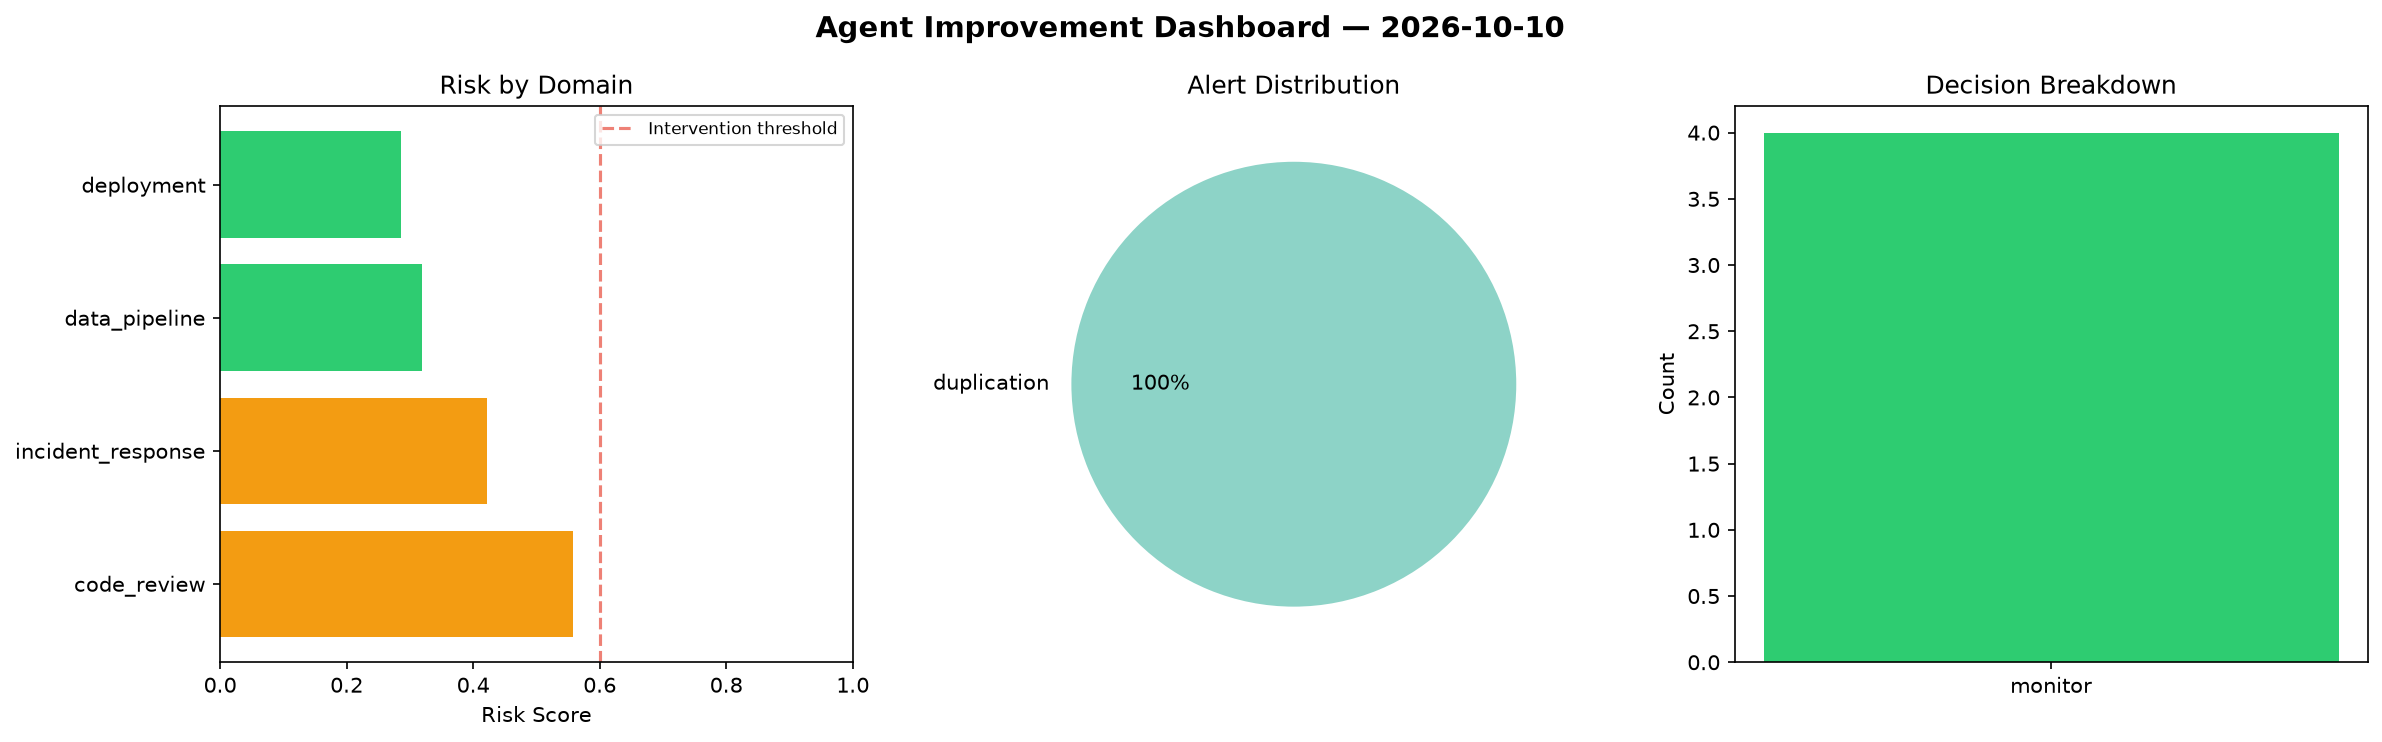
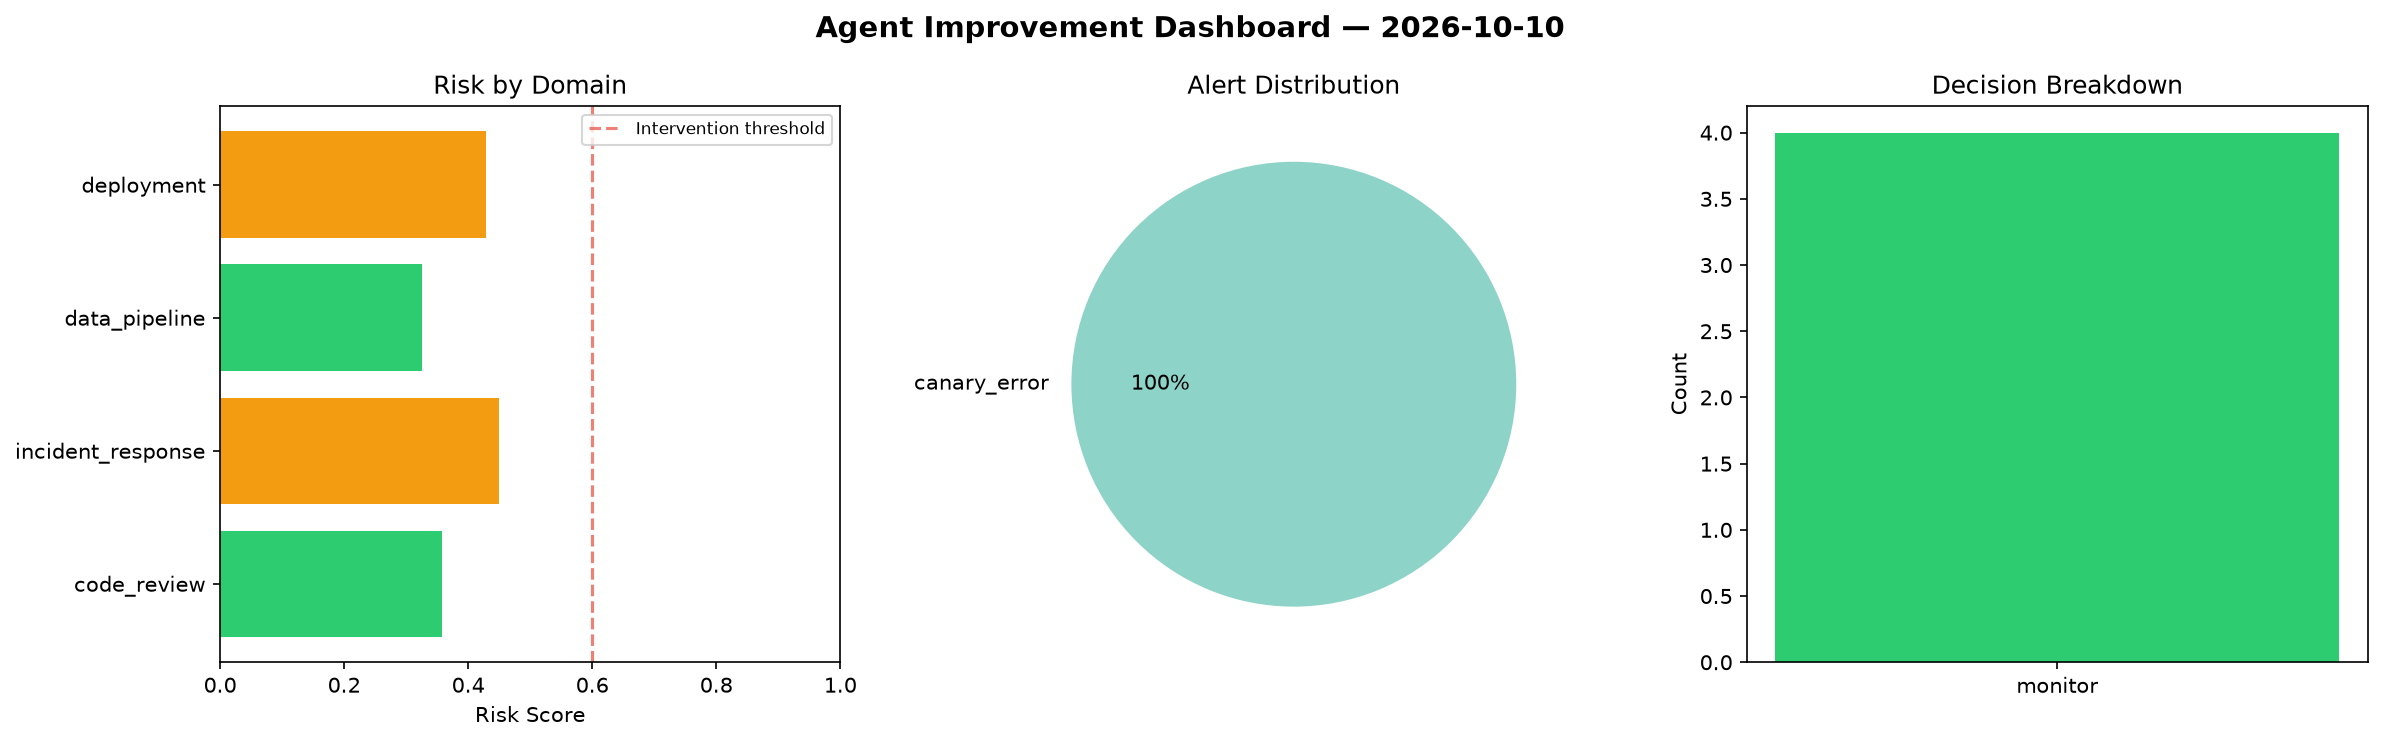
agent-improvement: daily cycle 2026-10-10T08:27

diff --git a/logs/2026-10-10.md b/logs/2026-10-10.md
@@ -1,6 +1,6 @@
 # Agent Improvement Report — 2026-10-10
 
-**Cycle ID:** `f6aad705` | **Avg Risk:** 0.3962 | **Interventions:** 0/4
+**Cycle ID:** `4cf2f78a` | **Avg Risk:** 0.3907 | **Interventions:** 0/4
 
 ![Dashboard](2026-10-10_dashboard.png)
 
@@ -10,18 +10,18 @@
 
 | Domain | Risk Score | Decision | Alerts |
 |--------|-----------|----------|--------|
-| code_review | 0.5578 | monitor | duplication |
-| incident_response | 0.4222 | monitor | none |
-| data_pipeline | 0.3187 | monitor | none |
-| deployment | 0.2861 | monitor | none |
+| code_review | 0.3584 | monitor | none |
+| incident_response | 0.4497 | monitor | none |
+| data_pipeline | 0.3261 | monitor | none |
+| deployment | 0.4284 | monitor | canary_error |
 
 ## Delta vs Yesterday
 
 | Domain | Today | Yesterday | Change |
 |--------|-------|-----------|--------|
-| code_review | 0.5578 | 0.7127 | 📉 -21.7% |
-| incident_response | 0.4222 | 0.51 | 📉 -17.2% |
-| data_pipeline | 0.3187 | 0.4183 | 📉 -23.8% |
-| deployment | 0.2861 | 0.8544 | 📉 -66.5% |
+| code_review | 0.3584 | 0.7127 | 📉 -49.7% |
+| incident_response | 0.4497 | 0.51 | 📉 -11.8% |
+| data_pipeline | 0.3261 | 0.4183 | 📉 -22.0% |
+| deployment | 0.4284 | 0.8544 | 📉 -49.9% |
 
-**Refinement:** `{'adjustment': 'maintain', 'trend': 'improving', 'window': 4}`
+**Refinement:** `{'adjustment': 'tighten_thresholds', 'trend': 'degrading', 'window': 4}`
